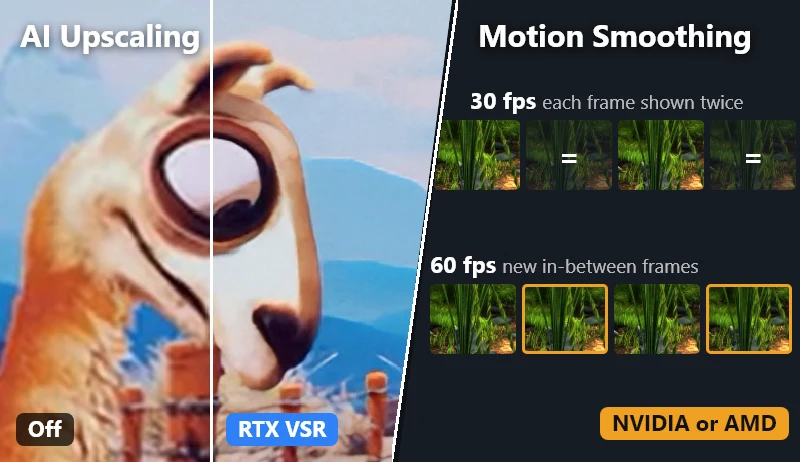
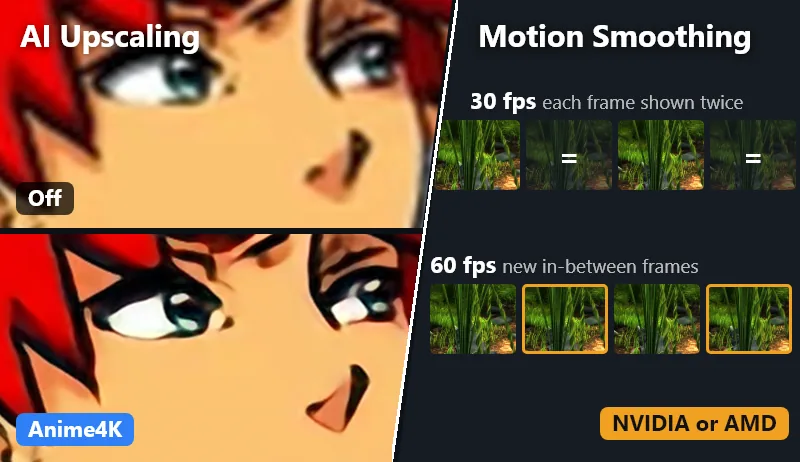
Release 0.11.7; README AI tile shows Anime4K on Morevna [skip ci]
0.11.6 was tagged but its release run stopped on a test that cannot
hold on elevated Windows runners (#483); nothing was released. 0.11.7
ships the same host (0.11.6) with the same notes.

Claude-Session: https://claude.ai/code/session_01QBEH3Ymiq4F8T2w4rV6vnm

diff --git a/README.md b/README.md
@@ -28,12 +28,12 @@ Vestra Player is an open-source video player for Windows and macOS; Linux is not
     <td><a href=".github/readme/vestranes.webp"><img src=".github/readme/vestranes.webp" alt="An NES game running in the player with the VestraNES window"></a><br><b>VestraNES</b>: a plugin can be a whole NES emulator, running inside the player.</td>
   </tr>
   <tr>
-    <td><a href=".github/readme/ai-video.webp"><img src=".github/readme/ai-video.webp" alt="Left: Big Buck Bunny at 480p with AI Upscaling off and with RTX Video Super Resolution. Right: 30 fps frames shown twice against 60 fps with new in-between frames"></a><br><b>AI Upscaling and Motion Smoothing</b>: sharper low-res video, and 30 fps doubled to 60 fps.</td>
+    <td><a href=".github/readme/ai-video.webp"><img src=".github/readme/ai-video.webp" alt="Left: a Morevna close-up at low resolution with AI Upscaling off, and with Anime4K from the Shader Upscale plugin. Right: 30 fps frames shown twice against 60 fps with new in-between frames"></a><br><b>AI Upscaling and Motion Smoothing</b>: sharper low-res video, and 30 fps doubled to 60 fps.</td>
     <td><a href=".github/readme/ai-workshop.webp"><img src=".github/readme/ai-workshop.webp" alt="Vestra Player AI window, a new chat, over a playing video"></a><br><b>Vestra Player AI</b> (experimental): describe a plugin and it writes, checks and tests it.</td>
   </tr>
 </table>
 
-<sub>Footage: Big Buck Bunny © 2008, Caminandes 2, Sintel and Tears of Steel © Blender Foundation, <a href="https://creativecommons.org/licenses/by/3.0/">CC BY 3.0</a>; Elephants Dream © 2006 Blender Foundation / Netherlands Media Art Institute, <a href="https://creativecommons.org/licenses/by/2.5/">CC BY 2.5</a>; Spring © Blender Foundation, <a href="https://creativecommons.org/licenses/by/4.0/">CC BY 4.0</a>; Twin Dragons (open-source NES homebrew) by Garydos, surt and Shiru, code <a href="https://github.com/Garydos/twin-dragons-nes">zlib</a>, graphics <a href="https://opengameart.org/content/twin-dragons">CC BY 3.0</a>.</sub>
+<sub>Footage: Big Buck Bunny © 2008, Caminandes 2, Sintel and Tears of Steel © Blender Foundation, <a href="https://creativecommons.org/licenses/by/3.0/">CC BY 3.0</a>; Elephants Dream © 2006 Blender Foundation / Netherlands Media Art Institute, <a href="https://creativecommons.org/licenses/by/2.5/">CC BY 2.5</a>; Spring © Blender Foundation, <a href="https://creativecommons.org/licenses/by/4.0/">CC BY 4.0</a>; Twin Dragons (open-source NES homebrew) by Garydos, surt and Shiru, code <a href="https://github.com/Garydos/twin-dragons-nes">zlib</a>, graphics <a href="https://opengameart.org/content/twin-dragons">CC BY 3.0</a>; Morevna © Morevna Project, <a href="https://creativecommons.org/licenses/by-sa/4.0/">CC BY-SA 4.0</a> (the AI Upscaling and Motion Smoothing image is shared under the same licence).</sub>
 
 ## Install
 

diff --git a/doc/releases/v0.11.7.md b/doc/releases/v0.11.7.md
@@ -1,0 +1,13 @@
+# Vestra Player 0.11.7
+
+The first public release of Vestra Player, for Windows (x64) and macOS (Apple silicon).
+
+## Install
+
+- **macOS:** open `VestraPlayer-macos-arm64.dmg` and drag Vestra Player into Applications. The app is signed and notarized by Apple.
+- **Windows:** run `VestraPlayer-windows-x64-setup.exe`. It installs for your user only, without administrator rights. The installer is not code-signed yet: if Windows SmartScreen warns, choose **More info**, then **Run anyway**. A portable zip is attached as well.
+
+## Changes
+
+- **macOS builds again.** The macOS package is built alongside the Windows one, signed and notarized, and installs from a DMG with a branded install window.
+- **macOS fixes:** pausing at the very end of a file no longer shows the wrong play state, and the hint strip wraps its text to a second line when it does not fit.
